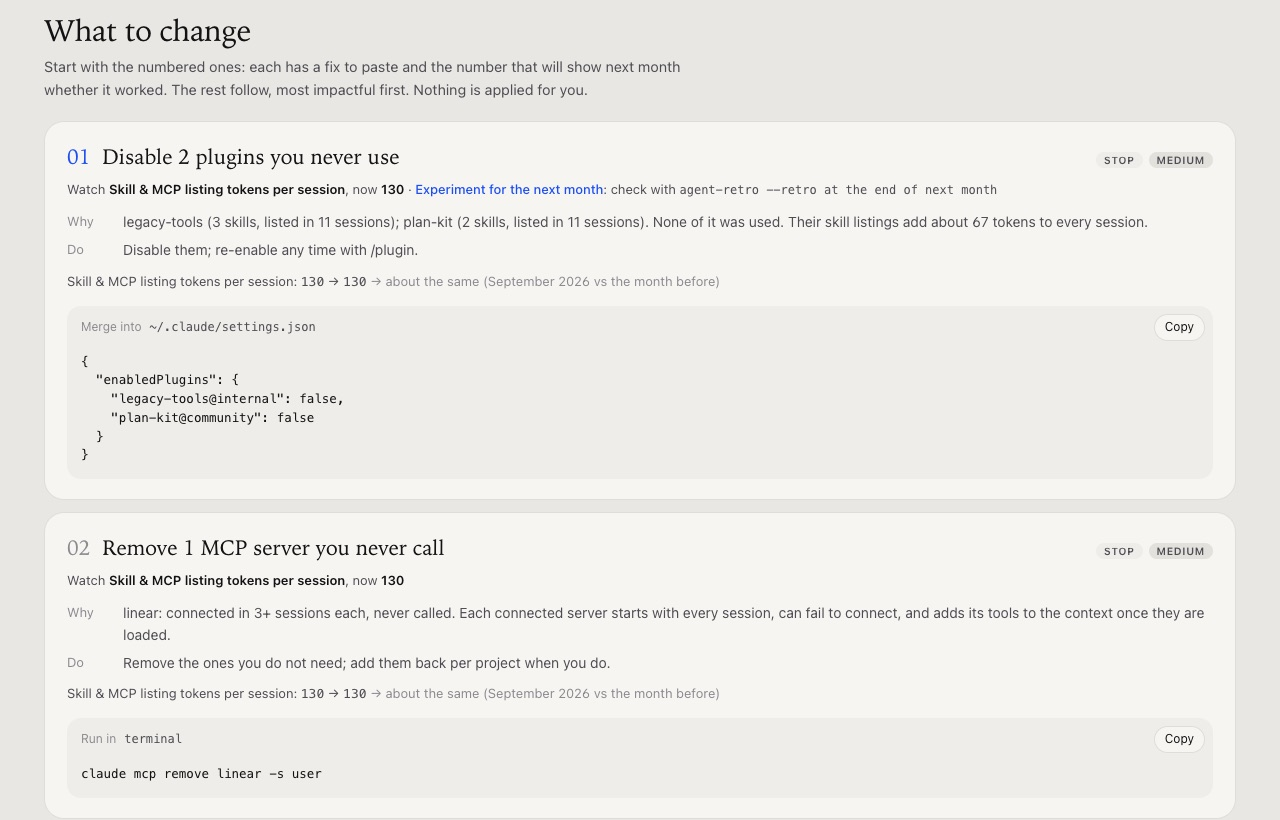
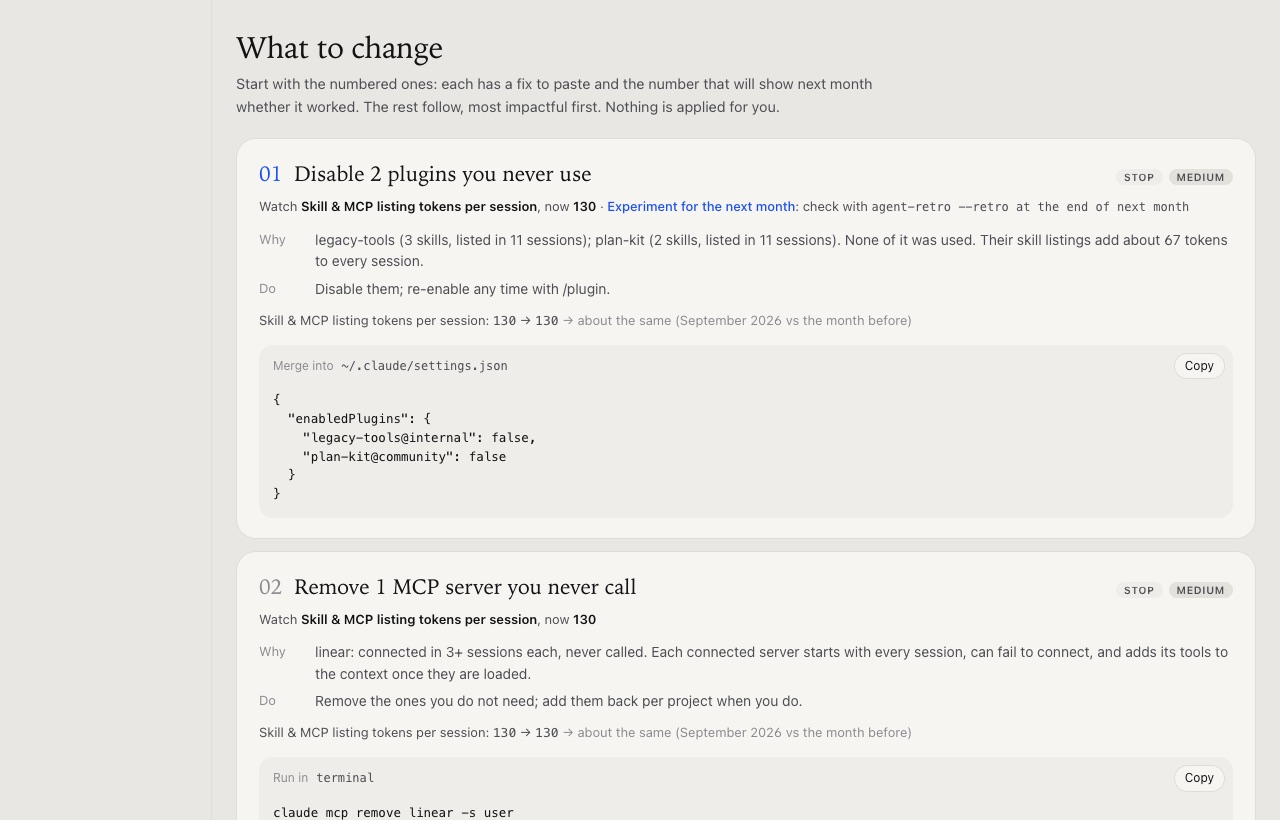
Move the pages to a side rail, and show spend per day
Pages sit in a side rail with icons (a scrolling row of tabs on a phone).
Home and the Cost page gain a spend-per-day chart; Claude logs cost per
session, so each session's spend counts on the day it started, like the
period filter. The Cost area's peek now shows spend by task instead of a
second per-day chart.

diff --git a/ui/index.html b/ui/index.html
@@ -321,11 +321,27 @@
 
 
   /* App shell: tabs + time period ------------------------------------------- */
-  .brand { margin-right: 0; }
-  .tabs { display: flex; gap: 4px; overflow-x: auto; margin: 0 auto; padding: 4px; }
-  .tabs a { padding: 8px 14px; border-radius: 12px; color: var(--ink-2); text-decoration: none; font-size: 13.5px; white-space: nowrap; }
+  /* the pages live in a side rail; on narrow screens it folds into a scrolling row above the header */
+  .side { position: fixed; inset: 0 auto 0 0; width: 212px; padding: 18px 14px; display: flex; flex-direction: column; gap: 22px; border-right: 1px solid var(--rule); background: var(--paper); z-index: 11; }
+  .side .brand { padding: 4px 10px; white-space: nowrap; }
+  body { padding-left: 212px; }
+  .top-in { justify-content: flex-end; }
+  .tabs { display: flex; flex-direction: column; gap: 2px; }
+  .tabs a { display: flex; align-items: center; gap: 11px; padding: 9px 12px; border-radius: 12px; color: var(--ink-2); text-decoration: none; font-size: 14px; white-space: nowrap; }
+  .tabs svg { width: 18px; height: 18px; flex: none; fill: none; stroke: currentColor; stroke-width: 1.6; stroke-linecap: round; stroke-linejoin: round; }
+  .tabs a[aria-current="page"] svg { color: var(--signal); }
+  @media (max-width: 900px) {
+    body { padding-left: 0; }
+    .side { position: static; width: auto; flex-direction: row; align-items: center; gap: 12px; padding: 10px 16px; border-right: 0; }
+    .side .brand { padding: 0; }
+    .tabs { flex-direction: row; overflow-x: auto; }
+    .tabs a { padding: 7px 11px; }
+    .tabs svg { display: none; }
+    .top-in { justify-content: flex-start; }
+  }
   .tabs a:hover { color: var(--ink); background: color-mix(in srgb, var(--surface) 60%, transparent); }
   .tabs a[aria-current="page"] { color: var(--ink); background: var(--surface); box-shadow: 0 1px 2px rgb(0 0 0 / .06), inset 0 0 0 1px var(--rule); font-weight: 500; }
+  .seg[hidden] { display: none; }
   .seg { display: inline-flex; gap: 2px; padding: 3px; border-radius: 999px; background: var(--inset); }
   .seg button { border: 0; border-radius: 999px; background: transparent; padding: 6px 12px; font-size: 12.5px; color: var(--ink-2); }
   .seg.period { align-items: center; }
@@ -333,7 +349,6 @@
   .seg.period button { width: 30px; padding: 5px 0; font-size: 16px; line-height: 1; }
   .seg.period button:disabled { opacity: .35; cursor: default; }
   .seg button[aria-pressed="true"] { background: var(--surface); color: var(--ink); font-weight: 500; box-shadow: 0 1px 2px rgb(0 0 0 / .08); }
-  @media (max-width: 1340px) { .brand { margin-right: auto; } .tabs { order: 5; flex-basis: 100%; margin: 0; } }
   .page[hidden] { display: none; }
   .page > section:first-child { padding-top: 32px; }
 
@@ -448,18 +463,20 @@
 </style>
 </head>
 <body>
+<aside class="side">
+  <div class="brand">agent-retro</div>
+  <nav class="tabs" aria-label="Pages">
+    <a href="#home" data-page="home"><svg viewBox="0 0 24 24" aria-hidden="true"><path d="M4 11l8-7 8 7v8a1 1 0 0 1-1 1h-4v-6h-6v6H5a1 1 0 0 1-1-1z"/></svg><span>Home</span></a>
+    <a href="#review" data-page="review"><svg viewBox="0 0 24 24" aria-hidden="true"><rect x="5" y="4" width="14" height="17" rx="2"/><path d="M9 4h6v3H9zM9 12l2 2 4-4"/></svg><span>Review</span></a>
+    <a href="#work" data-page="work"><svg viewBox="0 0 24 24" aria-hidden="true"><rect x="3" y="7" width="18" height="13" rx="2"/><path d="M9 7V5h6v2M3 13h18"/></svg><span>Work</span></a>
+    <a href="#cost" data-page="cost"><svg viewBox="0 0 24 24" aria-hidden="true"><circle cx="12" cy="12" r="8.5"/><path d="M14.5 9.2c-.5-.9-1.5-1.4-2.6-1.4-1.5 0-2.6.8-2.6 2 0 2.8 5.4 1.5 5.4 4.3 0 1.2-1.2 2.1-2.8 2.1-1.2 0-2.3-.6-2.8-1.6M12 6.5v11"/></svg><span>Cost</span></a>
+    <a href="#setup" data-page="setup"><svg viewBox="0 0 24 24" aria-hidden="true"><path d="M4 7h9M17 7h3M4 17h3M11 17h9"/><circle cx="15" cy="7" r="2"/><circle cx="9" cy="17" r="2"/></svg><span>Setup</span></a>
+    <a href="#habits" data-page="habits"><svg viewBox="0 0 24 24" aria-hidden="true"><circle cx="12" cy="12" r="8.5"/><path d="M12 7v5l3 2"/></svg><span>Habits</span></a>
+    <a href="#sessions" data-page="sessions"><svg viewBox="0 0 24 24" aria-hidden="true"><path d="M8 6h12M8 12h12M8 18h12"/><circle cx="4" cy="6" r="1"/><circle cx="4" cy="12" r="1"/><circle cx="4" cy="18" r="1"/></svg><span>Sessions</span></a>
+  </nav>
+</aside>
 <div class="top">
   <div class="top-in">
-    <div class="brand">agent-retro</div>
-    <nav class="tabs" aria-label="Pages">
-      <a href="#home" data-page="home">Home</a>
-      <a href="#review" data-page="review">Review</a>
-      <a href="#work" data-page="work">Work</a>
-      <a href="#cost" data-page="cost">Cost</a>
-      <a href="#setup" data-page="setup">Setup</a>
-      <a href="#habits" data-page="habits">Habits</a>
-      <a href="#sessions" data-page="sessions">Sessions</a>
-    </nav>
     <div class="seg" id="unitSeg" role="group" aria-label="Review by" hidden></div>
     <div class="seg period" role="group" aria-label="Time period">
       <button type="button" id="perPrev" aria-label="Previous month">‹</button>
@@ -510,6 +527,11 @@
         <a class="share-link" href="#digest" id="shareBtn">Summary <span aria-hidden="true">↗</span></a>
       </div>
       <div class="kpis" id="homeKpis"></div>
+      <div class="panel" style="margin-bottom:14px">
+        <div class="peek-head"><h3>Spend per day</h3><a href="#cost">Open the cost page →</a></div>
+        <p class="hint" style="margin-top:-8px">Recorded spend, counted on the day each session started, with the 7-day average.</p>
+        <div class="chart" id="homeSpend"></div>
+      </div>
       <div class="areas" id="areas" role="list"></div>
       <div class="peek panel" id="peek" aria-live="polite"></div>
       <div class="grid g2 gap">
@@ -620,6 +642,12 @@
           <p class="hint">Which tools put the most text or images back into the conversation.</p>
           <div class="bars" id="ctxTools"></div>
         </div>
+      </div>
+      <div class="panel gap">
+        <h3>Spend per day</h3>
+        <p class="hint">Recorded spend, counted on the day each session started (the logs give cost per session, not per turn), with the 7-day average.</p>
+        <div class="chart" id="costSpend"></div>
+        <details class="tv"><summary>Show as table</summary><div class="tv-scroll"><table id="spendTable"></table></div></details>
       </div>
       <div class="panel gap">
         <h3>Tokens per day</h3>
@@ -742,6 +770,8 @@ const fmt = (n) => (n == null ? '—' : Number(n).toLocaleString());
 const fmtN = (n) => (n >= 1e9 ? (n / 1e9).toFixed(1) + 'B' : n >= 1e6 ? (n / 1e6).toFixed(1) + 'M' : n >= 1e3 ? (n / 1e3).toFixed(n >= 1e4 ? 0 : 1) + 'k' : String(Math.round(n || 0)));
 const pct = (v, t) => (t ? Math.round((100 * v) / t) : 0) + '%';
 const rate = (v) => Math.round((v || 0) * 100) + '%';
+/** Dollars for charts and tables: zero shows as $0.00, not a dash. */
+const usd = (v) => '$' + (v >= 10 ? Math.round(v).toLocaleString() : (v || 0).toFixed(2));
 const money = (v) => (v ? '$' + (v >= 100 ? v.toFixed(0) : v.toFixed(2)) : '—');
 const sum = (m) => Object.values(m || {}).reduce((x, v) => x + v, 0);
 const topN = (m, n) => Object.entries(m || {}).sort((a, b) => b[1] - a[1]).slice(0, n);
@@ -1064,6 +1094,8 @@ function renderTokens(a) {
   const src = topN(cb.sources, 12); const srcTotal = sum(cb.sources);
   bars('ctxSources', src, { total: srcTotal, label: ctxLabel, value: fmtN, hot: (k) => k === (src[0] || [])[0] && src[0][1] / srcTotal >= 0.4 });
   bars('ctxTools', topN(cb.toolOutputByTool, 8), { total: sum(cb.toolOutputByTool), label: prettyTool, value: fmtN });
+  lineChart('costSpend', (a.cost && a.cost.daily) || [], (d) => d.n, usd, 'Spend');
+  dailyTable('spendTable', a.cost && a.cost.daily, (d) => d.n, usd);
   lineChart('tokTrend', tk.daily || [], (d) => d.n, fmtN, 'Tokens');
   dailyTable('tokTable', tk.daily, (d) => d.n, fmtN);
 }
@@ -1544,10 +1576,11 @@ function renderPeek(a) {
   const areas = areasOf(a);
   const ar = areas.find((x) => x.id === PEEK) || areas[0];
   document.querySelectorAll('.area').forEach((b) => b.setAttribute('aria-expanded', String(b.dataset.area === ar.id)));
-  const TITLE = { cost: 'Tokens per day', context: 'What fills the context', reliability: 'Why tool calls fail', prompting: 'Practices in your opening prompts', setup: 'Extensions you never use' };
-  $('peek').innerHTML = `<div class="peek-head"><h3>${esc(ar.name)}: ${esc(TITLE[ar.id])}</h3><a href="#${ar.page}">Open the ${esc(ar.page)} page →</a></div>${ar.id === 'cost' ? '<div class="chart" id="peekChart"></div>' : '<div class="bars" id="peekBars"></div>'}`;
+  const TITLE = { cost: 'Where the spend goes, by task', context: 'What fills the context', reliability: 'Why tool calls fail', prompting: 'Practices in your opening prompts', setup: 'Extensions you never use' };
+  $('peek').innerHTML = `<div class="peek-head"><h3>${esc(ar.name)}: ${esc(TITLE[ar.id])}</h3><a href="#${ar.page}">Open the ${esc(ar.page)} page →</a></div><div class="bars" id="peekBars"></div>`;
   const cb = a.contextBreakdown || {};
-  if (ar.id === 'cost') lineChart('peekChart', (a.tokens && a.tokens.daily) || [], (d) => d.n, fmtN, 'Tokens');
+  charts.delete('peekChart');
+  if (ar.id === 'cost') bars('peekBars', Object.values(a.tasks || {}).filter((t) => t.totalCost).map((t) => [t.label, t.totalCost]).sort((x, y) => y[1] - x[1]).slice(0, 6), { total: a.cost.usd, value: usd });
   else if (ar.id === 'context') bars('peekBars', topN(cb.sources, 5), { total: sum(cb.sources), label: ctxLabel, value: fmtN });
   else if (ar.id === 'reliability') bars('peekBars', topN((a.toolErrors || {}).byClass, 5), { total: (a.toolErrors || {}).total, label: (k) => ERR_LABEL[k] || k });
   else if (ar.id === 'prompting') bars('peekBars', ((a.prompting || {}).practices || []).filter((p) => p.sessions).map((p) => [p.label, Math.round(p.share * 100)]), { value: (v) => v + '%' });
@@ -1586,6 +1619,7 @@ function renderHome(a) {
       <span class="body">${ar.frac != null ? `${gaugeSvg(ar.frac)}<span class="v">${numHtml(ar.v)}</span>` : `<span class="v flat">${numHtml(ar.v)}</span>`}</span><span class="s">${esc(ar.s)}</span></button>`).join('');
   $('areas').querySelectorAll('.area').forEach((b) => b.addEventListener('click', () => { PEEK = b.dataset.area; renderPeek(a); }));
   renderPeek(a);
+  lineChart('homeSpend', (a.cost && a.cost.daily) || [], (d) => d.n, usd, 'Spend');
   const R = a.recommendations || [];
   const first = R.find((x) => (changeOf(a, x.id) || {}).next === 1) || R[0];
   const c1 = first ? changeOf(a, first.id) || {} : {};

diff --git a/README.md b/README.md
@@ -293,12 +293,12 @@ npx agent-retro --ui --open         # http://127.0.0.1:4173
 ```
 
 The dashboard (`ui/index.html`) is self-contained, loads no external assets, listens on localhost
-only, and follows your system's light or dark setting. The header has the pages, one time-period
-picker (any month, week or day with sessions, or all time) and a Settings menu for the agent, project and review
-period.
+only, and follows your system's light or dark setting. The pages are in a side rail (a row of
+tabs on a phone); the header has one period picker (any month, week or day with sessions, or all
+time) and a Settings menu for the agent, project and review period.
 
-- **Home** answers three questions on one screen. *How am I doing?* A one-line verdict, then five
-  areas (cost, context, reliability, prompting, setup), each marked good, watch or act. Pick an area
+- **Home** answers three questions on one screen. *How am I doing?* A one-line verdict, the period's
+  numbers and spend per day, then five areas (cost, context, reliability, prompting, setup), each marked good, watch or act. Pick an area
   to peek at its chart without leaving Home. *Your next step:* the change with the most impact, with
   a fix to copy. *Is it working?* How many changes from your last saved review moved the right way.
 - **Review.** The period card; Went well / Didn't go well / Did it work?; then What to change,

diff --git a/CHANGELOG.md b/CHANGELOG.md
@@ -46,6 +46,8 @@
   - a dashboard with a Home page (verdict, five areas with a status and a peek, what to do next,
     whether last month's changes worked), focused pages for the review, work, cost, setup, habits
     and sessions, one period picker (any month with sessions, or all time; weeks and days too when your sessions fill them), and a summary page
+  - pages in a side rail, and spend per day on Home and the Cost page (each session's cost on the
+    day it started)
   - a quiet visual language: warm grey with one blue accent, charts that grey out everything but
     the value that matters, half-circle gauges per area, a 24-hour clock of when you prompt, and
     light and dark themes
